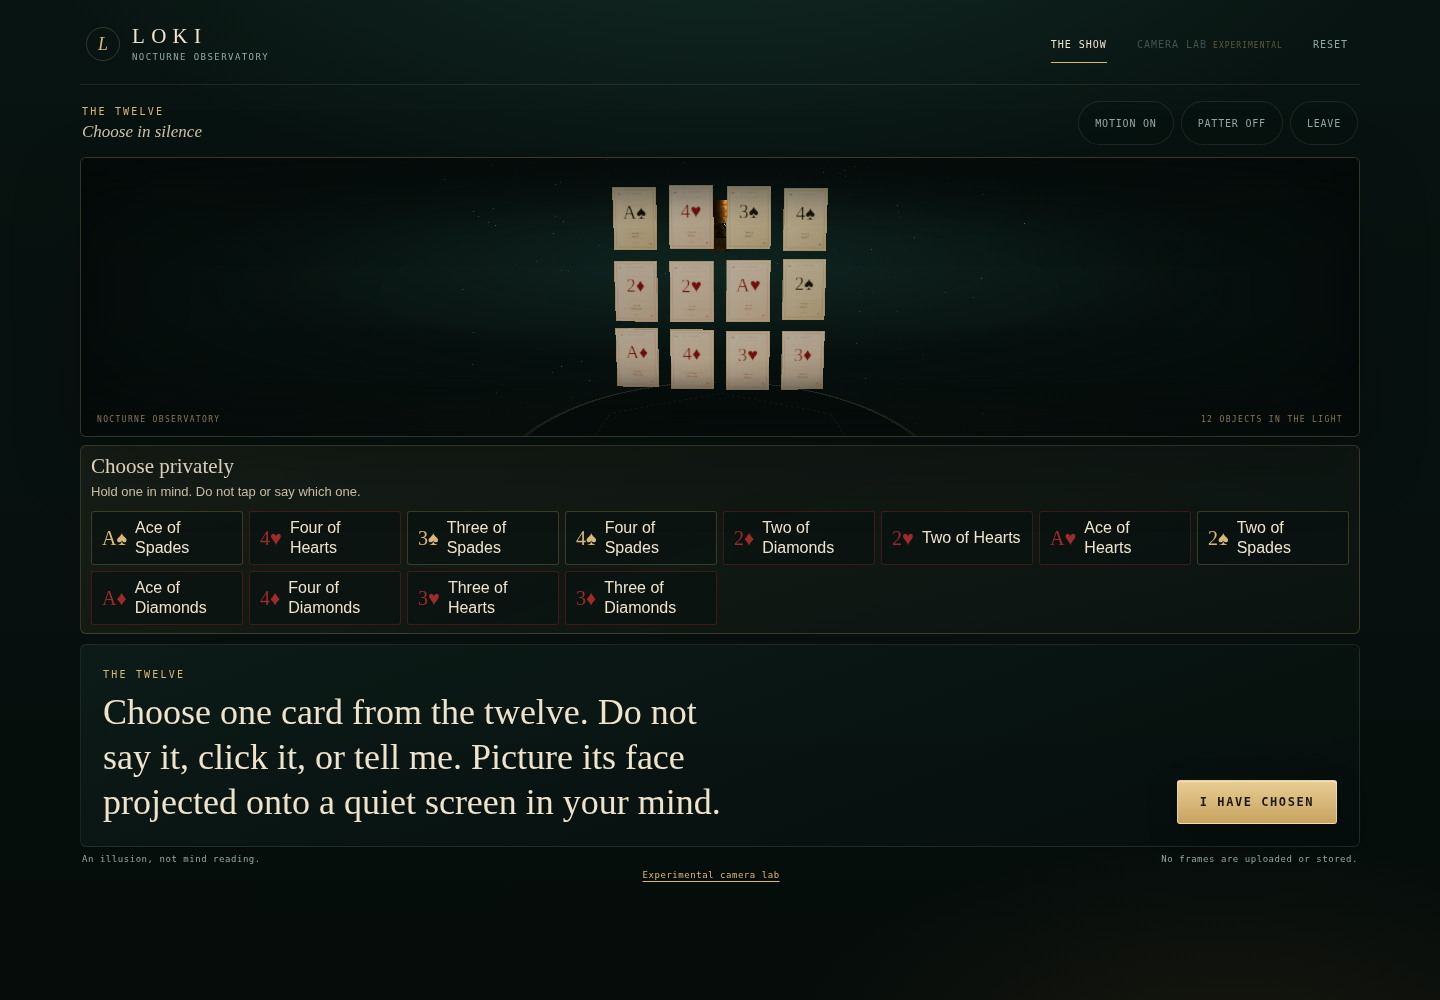
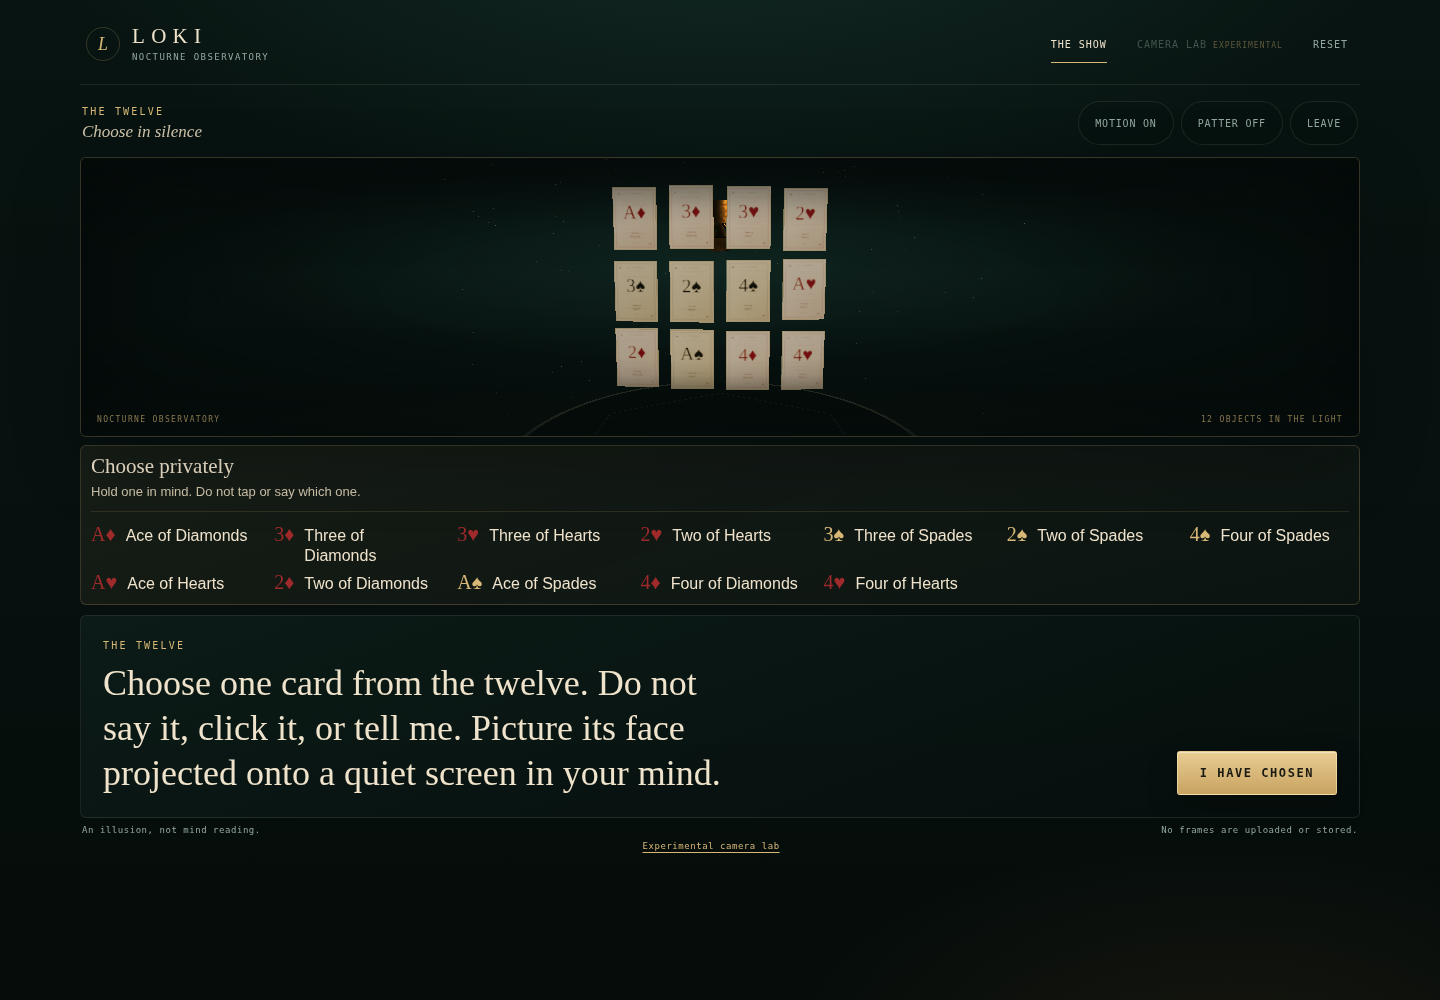
show: reveal invite names the seal, silent roster drops button chrome
C (patter): The Twelve's reveal invite told the spectator 'You turn it
over' and its action read 'Turn it over' - a physical-card instruction
for a card that exists only on screen. The invite now names what the
spectator actually holds and does: 'The seal is yours to open', action
'Open the seal', the same seal vocabulary the Countdown and the
commitment hash already use.

D (affordance): the 'Choose privately' roster rendered each item in the
same bordered box as the interactive choice buttons while capturing
nothing. Items are now plain text rows with glyph markers under a
hairline rule; the crimson treatment moves fully to the glyph, and the
M1 palette test drops its pin of the removed border rule.

Pixel-grounded: docs/screenshots/stage-desktop.png shows the roster as
text rows; the reveal invite was captured live during the screenshot
run. 511 unit green; show 8/8, performer 3/3, performer-flow 6/6,
show-continuation 3/3, handoff-consent 3/3; lint 0 errors; build,
isolation, provenance green.

diff --git a/tests/e2e/performer-flow.spec.ts b/tests/e2e/performer-flow.spec.ts
@@ -153,9 +153,9 @@ for (const effectName of ["The Twelve", "Ember Words"] as const) {
       await page.getByRole("button", { name: "Skip ahead" }).first().click();
       if (effectName === "The Twelve") {
         // The reveal waits for the person to perform it: invitation line, target still dark.
-        await expect(hush).toContainText(/turn it over/i);
+        await expect(hush).toContainText(/the seal is yours to open/i);
         await expect(page.locator(".stage-shell")).toHaveAttribute("data-target-lit", "false");
-        await page.getByRole("button", { name: "Turn it over" }).click();
+        await page.getByRole("button", { name: "Open the seal" }).click();
       }
       await expect(page.locator(".stage-shell")).toHaveAttribute("data-target-lit", "true");
       // A skipped sequence stays skipped: no late timer may pull it back to a hush beat.

diff --git a/apps/web/src/styles.css b/apps/web/src/styles.css
@@ -772,28 +772,23 @@ button,
 .silent-choice-list {
   display: grid;
   grid-template-columns: repeat(auto-fit, minmax(150px, 1fr));
-  gap: 6px;
+  gap: 2px 24px;
   margin: 10px 0 0;
-  padding: 0;
+  padding: 10px 0 0;
+  border-top: 1px solid rgba(216, 184, 119, 0.14);
   list-style: none;
 }
 
 .silent-choice {
   display: flex;
-  align-items: center;
-  gap: 8px;
+  align-items: baseline;
+  gap: 10px;
   min-width: 0;
-  min-height: 36px;
-  padding: 6px 10px;
-  border: 1px solid rgba(216, 184, 119, 0.24);
-  border-radius: 3px;
-  background: rgba(7, 17, 15, 0.58);
+  padding: 2px 0;
   color: var(--cream);
   font-size: 16px;
   line-height: 1.25;
 }
-
-.silent-choice.is-red { border-color: rgba(158, 42, 43, 0.36); }
 .silent-choice-glyph.is-red { color: #9e2a2b; }
 .silent-choice-glyph {
   flex: 0 0 auto;

diff --git a/tests/challenger-m1.test.ts b/tests/challenger-m1.test.ts
@@ -158,7 +158,6 @@ describe("Milestone 1 Empirical Challenge: Crimson Ink Palette", () => {
 
   it("styles.css enforces crimson #9e2a2b for .is-red classes", () => {
     const css = readFileSync(resolve("apps/web/src/styles.css"), "utf-8");
-    expect(css).toMatch(/\.silent-choice\.is-red\s*\{\s*border-color:\s*rgba\(158,\s*42,\s*43,\s*0\.36\);?\s*\}/);
     expect(css).toMatch(/\.silent-choice-glyph\.is-red\s*\{\s*color:\s*#9e2a2b;?\s*\}/);
     expect(css).toMatch(/\.flat-card\.is-red\s+\.flat-glyph\s*\{\s*color:\s*#9e2a2b;?\s*\}/);
     expect(css).toMatch(/\.flat-card\.is-red\s*\{\s*border-color:\s*rgba\(158,\s*42,\s*43,\s*0\.42\);?\s*\}/);

diff --git a/tests/e2e/performer.spec.ts b/tests/e2e/performer.spec.ts
@@ -56,7 +56,7 @@ test("performer: the payoff plays as timed cues and Skip ahead stops at the reve
   await expect(page.getByRole("button", { name: "Skip ahead" })).toHaveCount(0);
   await expect(page.locator(".panel-reveal, .panel-miss")).toBeVisible();
   // The card reveal waits for the person to turn the card over themselves.
-  const turnOver = page.getByRole("button", { name: "Turn it over" });
+  const turnOver = page.getByRole("button", { name: "Open the seal" });
   if (await turnOver.isVisible().catch(() => false)) await turnOver.click();
   await expect(page.getByRole("button", { name: "Continue" })).toBeVisible();
 });

diff --git a/apps/web/src/components/Performance.tsx b/apps/web/src/components/Performance.tsx
@@ -431,7 +431,7 @@ export function Performance({
 
   // The target is lit only when the resting reveal cue is on screen, never during the hush beats.
   // When the effect asks the person to perform the reveal, it also stays dark behind the
-  // invitation until they turn it over themselves.
+  // invitation until they open it themselves.
   const revealGated = Boolean(view.revealGate) && view.phase === "reveal" && !cuePending && !userRevealed;
   const stageView: SessionView =
     view.reveal && view.phase === "reveal" && (cuePending || revealGated) ? { ...view, reveal: undefined } : view;

diff --git a/effects/card/src/index.ts b/effects/card/src/index.ts
@@ -144,8 +144,8 @@ export const cardEffect: Effect = {
         : `The card that kept returning was the ${item.label}.`,
     recoverLine: "Hold on — a second impression crossed the screen and muddied the first. One clean claim settles it.",
     missLine: "You beat me. The card stays yours.",
-    revealInvite: "Don't tell me. You turn it over - whenever you are ready.",
-    revealAction: "Turn it over"
+    revealInvite: "Don't tell me. The seal is yours to open - whenever you are ready.",
+    revealAction: "Open the seal"
   }),
 
   stage: () => CARD_STAGE_BASE,

diff --git a/tests/e2e/show.spec.ts b/tests/e2e/show.spec.ts
@@ -52,7 +52,7 @@ async function answerThreeOfDiamonds(page: Page): Promise<void> {
       await reveal.click();
       const skip = page.getByRole("button", { name: "Skip ahead" }).first();
       if (await skip.isVisible().catch(() => false)) await skip.click();
-      const turnOver = page.getByRole("button", { name: "Turn it over" });
+      const turnOver = page.getByRole("button", { name: "Open the seal" });
       if (await turnOver.isVisible().catch(() => false)) await turnOver.click();
       await page.waitForTimeout(900);
       return;

diff --git a/tests/e2e/handoff-consent.spec.ts b/tests/e2e/handoff-consent.spec.ts
@@ -18,7 +18,7 @@ async function walkToAfterglow(page: Page): Promise<void> {
       continue;
     }
     let clicked = false;
-    const labels: Array<string> = ["One clean claim", "Reveal it", "Turn it over", "Skip ahead", "Continue"];
+    const labels: Array<string> = ["One clean claim", "Reveal it", "Open the seal", "Skip ahead", "Continue"];
     for (const label of labels) {
       const button = page.getByRole("button", { name: label });
       if (await button.isVisible().catch(() => false)) {

diff --git a/tests/e2e/show-continuation.spec.ts b/tests/e2e/show-continuation.spec.ts
@@ -16,7 +16,7 @@ async function walkToAfterglow(page: Page): Promise<void> {
       continue;
     }
     let clicked = false;
-    const labels: Array<string> = ["One clean claim", "Reveal it", "Turn it over", "Skip ahead", "Continue"];
+    const labels: Array<string> = ["One clean claim", "Reveal it", "Open the seal", "Skip ahead", "Continue"];
     for (const label of labels) {
       const button = page.getByRole("button", { name: label });
       if (await button.isVisible().catch(() => false)) {
